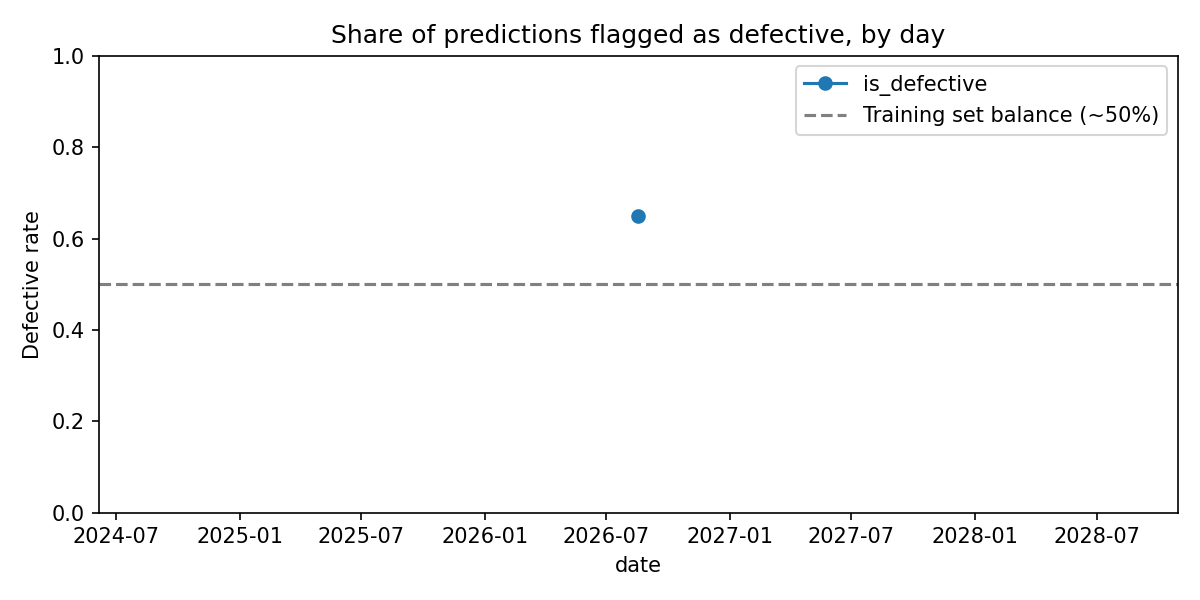
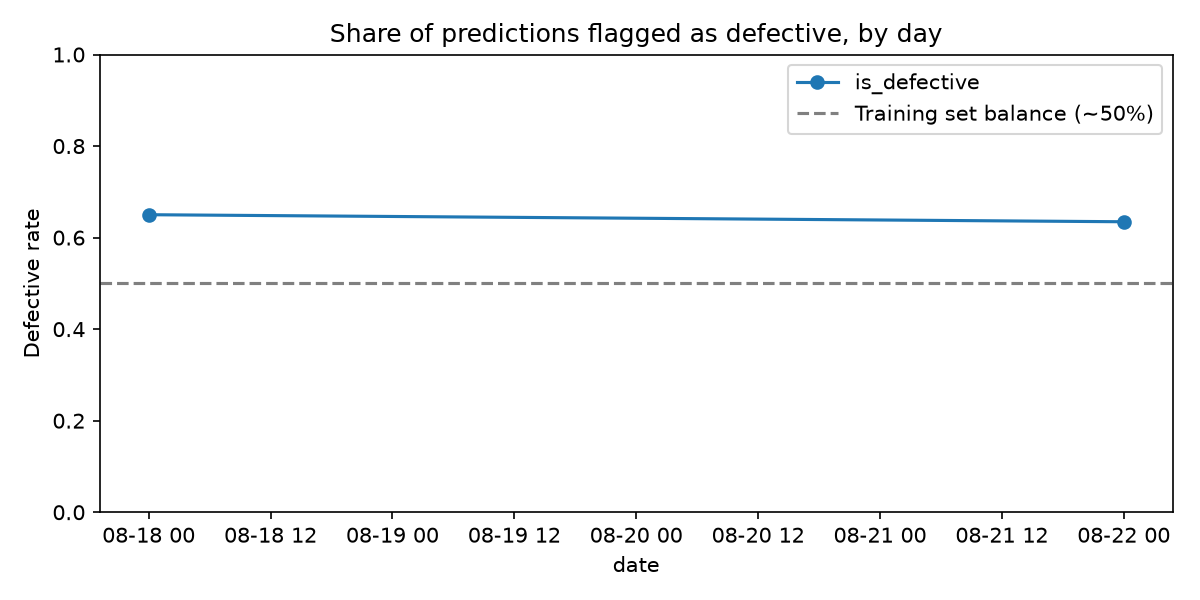
Add Week 4 retraining trigger design and update master README

diff --git a/grad_cam_test.py b/grad_cam_test.py
@@ -49,7 +49,7 @@ class GradCAM:
         return heatmap.cpu().detach().numpy()
 
 
-def run_gradcam(image_path="cast_stress_test4.jpg", model_path="models/resnet18_transfer_best.pth"):
+def run_gradcam(image_path="cast_stress_test6.jpg", model_path="models/resnet18_transfer_best.pth"):
     device = torch.device("cuda" if torch.cuda.is_available() else "cpu")
 
     # 1. Load Model

diff --git a/stress_test.py b/stress_test.py
@@ -5,7 +5,7 @@ predictor = CastingPredictor()
 
 # 2. Open your manually disturbed image file as raw bytes
 # Replace this with the actual name of your disturbed photo
-image_path = "cast_stress_test4.jpg" 
+image_path = "cast_stress_test6.jpg" 
 with open(image_path, "rb") as file:
     raw_image_bytes = file.read()
 

diff --git a/README.md b/README.md
@@ -1,28 +1,63 @@
-Machine Learning Engineering (PCAM* ZC412)
-Mini-Project Assignment Brief — EC-1 Project (Weight: 40% | Duration: 28 Days)
-------------------------------------------------------------------------------
-This mini-project requires you to design, build, and operate an end-to-end machine learning pipeline — from raw data to a monitored, deployed service. You will choose ONE of three problem statements (Flavor A, B, or C) based on your interest. All three flavors are of equal complexity, follow the same 4-week structure, map to the same course modules (M1 through M5), and are evaluated using the same rubric — only the input data and modeling task differ.
+# Casting Defect Classifier: End-to-End ML Pipeline
 
-•	Design and implement a reliable data ingestion, validation, and feature engineering pipeline.
-•	Apply engineering discipline to ML experimentation through tracking, comparison, and reproducibility.
-•	Package and deploy a trained model as a production-style service with a REST API.
-•	Implement monitoring, simulate drift, and design a retraining strategy for a deployed model.
-•	Demonstrate end-to-end ownership of the ML system lifecycle, consistent with course outcomes LO1–LO5.
+## 1. Overview
+This repository contains a complete, end-to-end Machine Learning pipeline designed for a manufacturing quality-assurance team. It automatically flags defective cast products from images captured on the production line. 
 
-Flavor B — Image-Based Defect / Quality Classifier
-Domain: Vision data | Modules: M2 → M3 → M4 → M5
-Problem Statement: A manufacturing or quality-assurance team wants to automatically flag defective products from images captured on the production line. Build an end-to-end ML pipeline that ingests and preprocesses product images, trains a classifier to distinguish defective from non-defective items, deploys it as an inference service, and monitors performance as new product variants or lighting conditions appear.
-Week	Module	Task
-Week 1	M2	Ingest and validate image data; build a preprocessing/augmentation pipeline; version the dataset.
-Week 2	M3	Train and compare CNN/transfer-learning models; track experiments and reproducibility.
-Week 3	M4	Package the model; serve via a REST API accepting image uploads; handle malformed/edge-case inputs.
-Week 4	M5	Log predictions and confidence scores; simulate distribution shift (lighting/angle changes); monitor and design a retraining workflow.
-Suggested Dataset(s): Casting Product Image Data for Quality Inspection (Kaggle), or Surface Defect Detection datasets.
+This project fulfills the EC-1 Mini-Project requirements for Machine Learning Engineering (PCAM* ZC412) under "Flavor B"[cite: 1]. It takes raw image data through feature engineering, model comparison, packaging, deployment, and live monitoring[cite: 1].
 
-Weekly Timeline & Milestones
-Milestone	Expectation
-Day 1–2	Flavor selection confirmed; repository initialized.
-End of Week 1	Data ingestion, validation, and feature pipeline complete; dataset version tagged.
-End of Week 2	At least two tracked experiments completed; best model identified with justification.
-End of Week 3	Model packaged and deployed; API endpoint tested with sample inputs.
-End of Week 4 (Day 28)	Monitoring/drift simulation complete; final submission package and demo ready.
+## 2. System Architecture
+Our pipeline connects the trained model to the outside world via a REST API, while seamlessly logging data for drift detection and retraining[cite: 1].
+
+[ Factory Camera ] 
+        │
+        ▼ (Image Upload)
+┌────────────────────────────────────────────────────────┐
+│                   REST API (FastAPI)                   │ 
+│  Endpoint: /predict                                    │
+└───────┬────────────────────────────────────────┬───────┘
+        │                                        │
+        ▼                                        ▼ (Logs to CSV)
+┌──────────────────────┐               ┌─────────────────────────┐
+│ Packaged Model       │               │ Live Monitoring         │
+│ (PyTorch ResNet18)   │               │ - Accuracy Drift Checks │
+│ - Image Translation  │               │ - Confidence Tracking   │
+│ - Defect Prediction  │               │ - Retraining Triggers   │
+└──────────────────────┘               └─────────────────────────┘
+
+## 3. Technology Stack
+* **Data Versioning:** DVC (Data Version Control)[cite: 1]
+* **Model Training:** PyTorch (Custom CNN & ResNet18 Transfer Learning)[cite: 1]
+* **Experiment Tracking:** MLflow[cite: 1]
+* **Model Serving / API:** FastAPI & Uvicorn[cite: 1]
+* **Monitoring:** Custom CSV logging & Python visualization[cite: 1]
+
+## 4. Local Setup & Installation
+To run this project on your local machine, follow these steps to set up an isolated Python environment:
+
+**Step 1: Create a virtual environment**
+`python -m venv .venv`
+
+**Step 2: Activate the environment**
+* On Windows: `.\.venv\Scripts\activate`
+* On Mac/Linux: `source .venv/bin/activate`
+
+**Step 3: Install dependencies**
+`pip install -r requirements.txt`
+
+## 5. Running the Application (API Service)
+To start the API server and test the model's predictions:
+
+**Step 1: Start the FastAPI Server**
+`uvicorn src.serving.app:app --reload`[cite: 6]
+
+**Step 2: Access the UI**
+Open your web browser and navigate to: `http://127.0.0.1:8000/docs`[cite: 6]
+
+**Step 3: Test a Prediction**
+Expand the green `POST /predict` box, click **"Try it out"**, upload a test image (e.g., from the `data/raw/test/` folder), and click **"Execute"**[cite: 1, 6]. The server will return a JSON response showing the defect label and the model's confidence score.
+
+## 6. Project Milestones & Reports
+* **Week 1 (Data Engineering):** Versioned raw and processed datasets via DVC, handling edge cases and data validation[cite: 1].
+* **Week 2 (Model Comparison):** Evaluated a custom CNN against a ResNet18 Transfer Learning model. ResNet18 was selected as the champion model with an accuracy of 97.48% (See `model_comparison_report.md`)[cite: 1, 11].
+* **Week 3 (Deployment):** Packaged the model and deployed it as a robust REST API capable of handling invalid uploads[cite: 1].
+* **Week 4 (Drift & Monitoring):** The API automatically logs all traffic to `prediction_log.csv`[cite: 5, 8]. We simulated environmental drift (blur, lighting, rotation) to establish strict thresholds for when the model fails (See `drift_degradation_summary.csv`)[cite: 1, 7]. The exact business rules and automated pipeline for retraining the model are documented in `retraining_trigger_design.md`[cite: 1].

diff --git a/reports/retraining_trigger_design.md b/reports/retraining_trigger_design.md
@@ -1,0 +1,47 @@
+# Retraining Trigger and Automated Workflow Design
+
+## 1. Trigger Strategy and Thresholds
+
+Our system uses a multi-tier trigger strategy combining live proxy signals from API logging and environmental stress boundaries identified during drift testing.
+
+### A. Live Monitoring Triggers (Statistical Drift)
+Because ground-truth labels are not instantly available on the factory line, we monitor proxy metrics over a rolling window of **1,000 predictions** (or a 24-hour shift):
+* **Confidence Degradation Trigger:** Trigger an automated alert if the rolling mean confidence falls below **0.88** (baseline is 0.908).
+* **Low-Confidence Spike Trigger:** Trigger retraining if the proportion of predictions with confidence `< 0.65` exceeds **12.0%** (baseline is 5.0%).
+* **Class Imbalance Drift Trigger:** Trigger an investigation if the predicted defective rate deviates by more than **15 percentage points** from the historical balance (healthy baseline is ~50.0% to 65.0%).
+
+### B. Physical Degradation Thresholds (Data Distribution Shift)
+Based on empirical stress tests on the 711-image test set, performance degrades significantly (≥5 percentage points drop in accuracy) at the following boundaries:
+* **Lens Blur:** Blur radius $\ge 2.0$ (accuracy drops to 88.33%).
+* **Camera Misalignment / Rotation:** Angle $\ge 5^\circ$ (accuracy drops to 89.73%).
+* **Illumination Failure / Brightness:** Factor $\le 0.5$ or $\ge 1.3$ (accuracy drops to 63.57% and 69.06% respectively).
+* **Sensor Noise:** Noise level $\ge 5.0$ (accuracy drops to 90.86%).
+
+*Operational Rule:* When an alarm fires, hardware diagnostics run first to check camera alignment, lighting, and lens cleanliness before executing compute-heavy model training.
+
+### C. Time-Based Scheduled Trigger (Cadence)
+* A scheduled retraining pipeline runs every **90 days** (quarterly) to capture seasonal visual shifts and subtle casting mold wear even if anomaly thresholds are not breached.
+
+## 2. Automated Retraining Workflow
+
+Once a trigger threshold is breached, the following pipeline executes automatically:
+
+```text
+[ Live Production Traffic ]
+           │
+           ▼
+[ Step 1: Anomaly Trigger Fired ] ─── (Confidence < 0.88 OR Low-Conf > 12%)
+           │
+           ▼
+[ Step 2: Data Collection ] ───────── (Pull logged images from Week 4 monitoring)
+           │
+           ▼
+[ Step 3: Data Validation ] ───────── (Run Week 1 validation to ensure no corrupted files)
+           │
+           ▼
+[ Step 4: Model Retraining ] ──────── (Fine-tune ResNet18 backbone using Week 2 script)
+           │
+           ▼
+[ Step 5: Deployment Gate ] ───────── (Does it beat the 97.48% baseline?)
+           ├─ YES ──► Deploy to FastAPI (Update Week 3 API)
+           └─ NO  ──► Abort and Alert ML Engineer for Review

diff --git a/reports/monitoring_summary.md b/reports/monitoring_summary.md
@@ -1,22 +1,22 @@
 # Monitoring Summary
 
-Generated from 100 logged predictions
-(2026-08-18 16:37:33.429215+00:00 to 2026-08-18 16:37:34.490422+00:00).
+Generated from 204 logged predictions
+(2026-08-18 16:37:33.429215+00:00 to 2026-08-22 15:01:42.587351+00:00).
 
 ## Volume
-- Total predictions: 100
-- Days covered: 1
-- Average per day: 100.0
+- Total predictions: 204
+- Days covered: 2
+- Average per day: 102.0
 
 ## Confidence
 - Mean confidence: 0.908
-- Share below 65% confidence: 5.0%
+- Share below 65% confidence: 4.9%
 
 ## Class balance
-- Overall defective rate: 65.0%
+- Overall defective rate: 64.2%
 - Training set baseline: ~50%
 
 ## Suggested signals to watch (for the retraining trigger design)
 - Defective rate drifting more than ~15 points from the ~50% baseline
 - Mean confidence dropping notably below 0.91 (this run's baseline)
-- Share of low-confidence (<65%) predictions rising past 5.0%
+- Share of low-confidence (<65%) predictions rising past 4.9%
